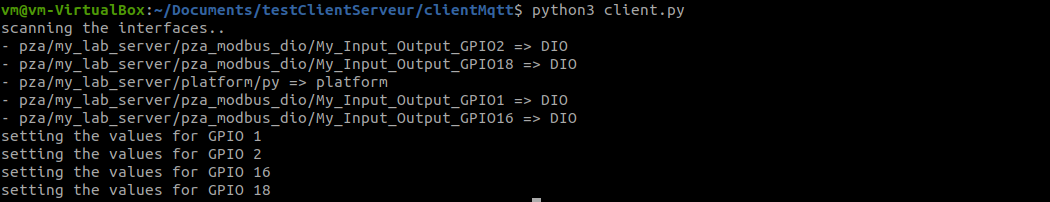
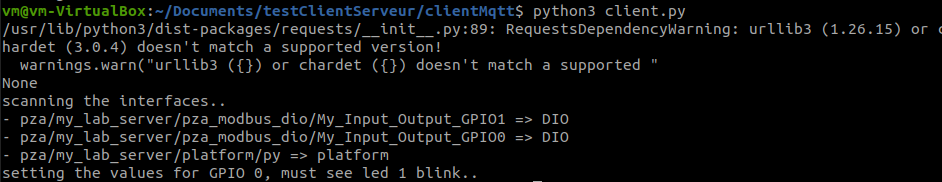
modify python script adapted to io 0 and 1

Changed region(s): [[0.0, 0.0, 1.0, 1.0], [0.5541, 0.989, 0.5849, 1.0]]

diff --git a/tutorials/dio_control_with_raspberry_pico/index.md b/tutorials/dio_control_with_raspberry_pico/index.md
@@ -142,7 +142,7 @@ Make sure to take the last version of the release.
 
 The PICO client is the panduza bloc from from the point of view of the user.
 
-This part will allow you to sent various informations of each I:O (GPIO 0,10,16,21 and 28) to the PICO via the MQTT brocker.
+This part will allow you to sent various informations of each I:O (GPIO 0 in our case) to the PICO via the MQTT brocker.
 
 In this part we need to configure various informations.
 
@@ -163,17 +163,11 @@ Configure the Topics. A topic corresponds to a path where will be stored all the
 
 ```python
 var0 = 0
-var10 = 10
-var16 = 16
-var21 = 21
-var28 = 28
+var1 = 1
 
 # one topic per io
 pzaTOPIC0=f"pza/my_lab_server/pza_modbus_dio/My_Input_Output_GPIO{var0}"
-pzaTOPIC10=f"pza/my_lab_server/pza_modbus_dio/My_Input_Output_GPIO{var10}"
-pzaTOPIC16=f"pza/my_lab_server/pza_modbus_dio/My_Input_Output_GPIO{var16}"
-pzaTOPIC21=f"pza/my_lab_server/pza_modbus_dio/My_Input_Output_GPIO{var21}"
-pzaTOPIC28=f"pza/my_lab_server/pza_modbus_dio/My_Input_Output_GPIO{var28}"
+pzaTOPIC1=f"pza/my_lab_server/pza_modbus_dio/My_Input_Output_GPIO{var1}"
 ```
 
 Create a instance of the Client class. This will manage the connection between your client script and the MQTT brocker.
@@ -204,15 +198,11 @@ create instances of Dio. This will allow you to use the Driver class from the pl
 
 ```python
 # declare instances of dio. One per io control
+# declare instances of dio. One per io control
 d0 = Dio(addr=BROKER_ADDR, port=BROKER_PORT, topic=pzaTOPIC0, client=pzaClient)
-d10 = Dio(addr=BROKER_ADDR, port=BROKER_PORT, topic=pzaTOPIC10, client=pzaClient)
-d16 = Dio(addr=BROKER_ADDR, port=BROKER_PORT, topic=pzaTOPIC16, client=pzaClient)
-d21 = Dio(addr=BROKER_ADDR, port=BROKER_PORT, topic=pzaTOPIC21, client=pzaClient)
-d28 = Dio(addr=BROKER_ADDR, port=BROKER_PORT, topic=pzaTOPIC28, client=pzaClient)
+d1 = Dio(addr=BROKER_ADDR, port=BROKER_PORT, topic=pzaTOPIC1, client=pzaClient)
 
-
-
-print("setting the values for GPIO 1")
+print("setting the values for GPIO 0, must see led 1 blink..")
 d0.direction.value.set(0)
 time.sleep(1)
 d0.direction.pull.set("open")
@@ -227,66 +217,6 @@ time.sleep(1)
 d0.state.polling_cycle.set(100)
 time.sleep(1)
 
-print("setting the values for GPIO 2")
-d10.direction.value.set(10 )
-time.sleep(1)
-d10.direction.pull.set("open" )
-time.sleep(1)
-d10.direction.polling_cycle.set(10)
-time.sleep(1)
-
-d10.state.active.set(False)
-time.sleep(1)
-d10.state.active_low.set(True )
-time.sleep(1)
-d10.state.polling_cycle.set(100 )
-time.sleep(1)
-
-print("setting the values for GPIO 16")
-d16.direction.value.set(16 )
-time.sleep(1)
-d16.direction.pull.set("open"  )
-time.sleep(1)
-d16.direction.polling_cycle.set(10 )
-time.sleep(1)
-
-d16.state.active.set(False )
-time.sleep(1)
-d16.state.active_low.set(True  )
-time.sleep(1)
-d16.state.polling_cycle.set(100  )
-time.sleep(1)
-
-print("setting the values for GPIO 21")
-d21.direction.value.set(21)
-time.sleep(1)
-d21.direction.pull.set("open" )
-time.sleep(1)
-d21.direction.polling_cycle.set(10  )
-time.sleep(1)
-
-d21.state.active.set(False  )
-time.sleep(1)
-d21.state.active_low.set(True )
-time.sleep(1)
-d21.state.polling_cycle.set(100)
-time.sleep(1)
-
-
-print("setting the values for GPIO 28")
-d28.direction.value.set(28)
-time.sleep(1)
-d28.direction.pull.set("open" )
-time.sleep(1)
-d28.direction.polling_cycle.set(10  )
-time.sleep(1)
-
-d28.state.active.set(False  )
-time.sleep(1)
-d28.state.active_low.set(True )
-time.sleep(1)
-d28.state.polling_cycle.set(100)
-time.sleep(1)
 ```
 
 To understand more how the client works, there is a example of architecture of how it works.
